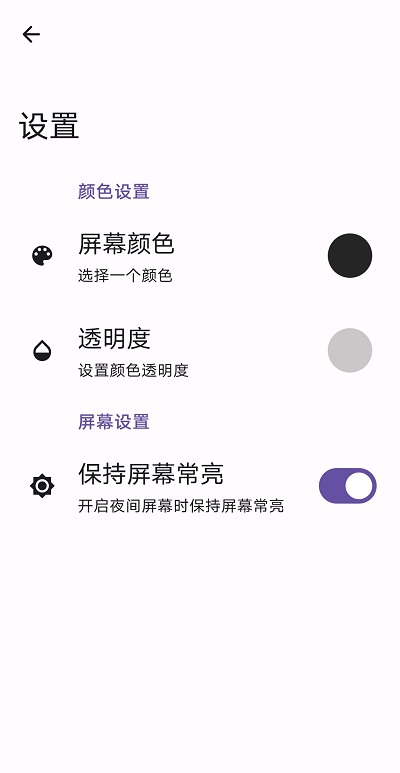
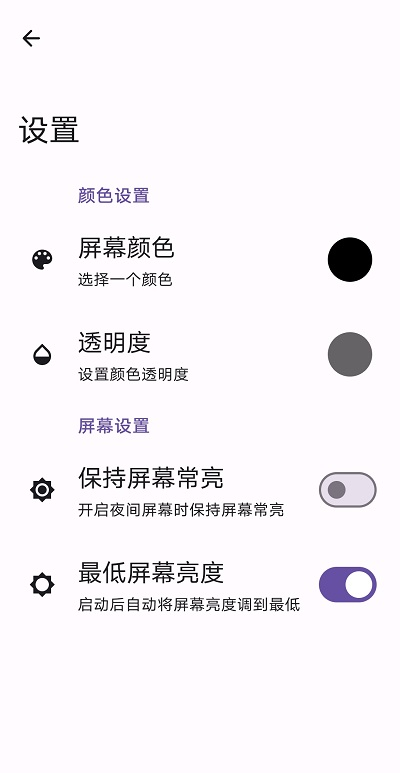
[feature|doc]支持自动降低屏幕亮度；完善截图文档

diff --git a/app/src/main/java/com/skyd/nightscreen/ui/screen/settings/SettingsScreen.kt b/app/src/main/java/com/skyd/nightscreen/ui/screen/settings/SettingsScreen.kt
@@ -4,6 +4,7 @@ import androidx.compose.animation.rememberSplineBasedDecay
 import androidx.compose.foundation.layout.*
 import androidx.compose.foundation.lazy.LazyColumn
 import androidx.compose.material.icons.Icons
+import androidx.compose.material.icons.filled.Brightness5
 import androidx.compose.material.icons.filled.Brightness7
 import androidx.compose.material.icons.filled.ColorLens
 import androidx.compose.material.icons.filled.Opacity
@@ -16,8 +17,10 @@ import androidx.compose.ui.Modifier
 import androidx.compose.ui.graphics.Color
 import androidx.compose.ui.graphics.toArgb
 import androidx.compose.ui.input.nestedscroll.nestedScroll
+import androidx.compose.ui.platform.LocalContext
 import androidx.compose.ui.res.stringResource
 import com.skyd.nightscreen.R
+import com.skyd.nightscreen.ext.activity
 import com.skyd.nightscreen.ui.component.*
 import com.skyd.nightscreen.ui.component.dialog.AlphaDialog
 import com.skyd.nightscreen.ui.component.dialog.ColorDialog
@@ -32,6 +35,7 @@ fun SettingsScreen() {
         state = rememberTopAppBarState()
     )
     val navController = LocalNavController.current
+    val activity = LocalContext.current.activity
     Scaffold(
         topBar = {
             NSTopBar(
@@ -50,6 +54,7 @@ fun SettingsScreen() {
     ) { innerPadding ->
         var color by remember { mutableStateOf(screenColor) }
         var alphaColor by remember { mutableStateOf(calculatedColor) }
+        var lowestScreenChecked = remember { mutableStateOf(lowestScreenBrightness) }
         LazyColumn(
             modifier = Modifier
                 .fillMaxSize()
@@ -114,8 +119,19 @@ fun SettingsScreen() {
                     icon = Icons.Default.Brightness7,
                     text = stringResource(id = R.string.settings_screen_keep_screen_on),
                     description = stringResource(id = R.string.settings_screen_keep_screen_on_description),
-                    checked = keepScreenOn,
+                    checked = remember { mutableStateOf(keepScreenOn) },
                     onCheckedChange = { keepScreenOn = it },
+                )
+            }
+            item {
+                SwitchSettingsItem(
+                    icon = Icons.Default.Brightness5,
+                    text = stringResource(id = R.string.settings_screen_lowest_screen_brightness),
+                    description = stringResource(id = R.string.settings_screen_lowest_screen_brightness_description),
+                    checked = lowestScreenChecked,
+                    onCheckedChange = {
+                        lowestScreenBrightness = it
+                    },
                 )
             }
         }

diff --git a/app/src/main/java/com/skyd/nightscreen/ui/screen/about/AboutScreen.kt b/app/src/main/java/com/skyd/nightscreen/ui/screen/about/AboutScreen.kt
@@ -26,6 +26,8 @@ import androidx.compose.ui.platform.LocalContext
 import androidx.compose.ui.platform.LocalView
 import androidx.compose.ui.res.painterResource
 import androidx.compose.ui.res.stringResource
+import androidx.compose.ui.semantics.contentDescription
+import androidx.compose.ui.semantics.semantics
 import androidx.compose.ui.unit.dp
 import com.skyd.nightscreen.R
 import com.skyd.nightscreen.config.Const
@@ -36,6 +38,7 @@ import com.skyd.nightscreen.ui.component.NSTopBarStyle
 import com.skyd.nightscreen.ui.local.LocalNavController
 import com.skyd.nightscreen.ui.screen.license.LICENSE_SCREEN_ROUTE
 import com.skyd.nightscreen.ui.shape.ReuleauxTriangleShape
+import com.skyd.nightscreen.util.CommonUtil.getAppVersionName
 import com.skyd.nightscreen.util.CommonUtil.openBrowser
 import com.skyd.nightscreen.util.screenIsLand
 
@@ -164,6 +167,7 @@ private fun AppIconArea(modifier: Modifier = Modifier) {
                 repeatMode = RepeatMode.Restart
             )
         )
+
         Box(
             modifier = Modifier
                 .padding(top = 50.dp, bottom = 50.dp)
@@ -188,14 +192,29 @@ private fun AppIconArea(modifier: Modifier = Modifier) {
                     )
                 }
         ) {
-            Image(
+            BadgedBox(
                 modifier = Modifier
                     .fillMaxSize(0.46f)
                     .align(Alignment.Center),
-                painter = painterResource(id = R.drawable.ic_icon_128),
-                contentDescription = null,
-                colorFilter = ColorFilter.tint(color = Color.White)
-            )
+                badge = {
+                    Badge {
+                        val badgeNumber = remember { getAppVersionName() }
+                        Text(
+                            badgeNumber,
+                            modifier = Modifier.semantics {
+                                contentDescription = "$badgeNumber new notifications"
+                            }
+                        )
+                    }
+                }
+            ) {
+                Image(
+                    modifier = Modifier.fillMaxSize(),
+                    painter = painterResource(id = R.drawable.ic_icon_128),
+                    contentDescription = null,
+                    colorFilter = ColorFilter.tint(color = Color.White)
+                )
+            }
         }
     }
 }

diff --git a/app/src/main/java/com/skyd/nightscreen/ui/screen/home/HomeScreen.kt b/app/src/main/java/com/skyd/nightscreen/ui/screen/home/HomeScreen.kt
@@ -6,9 +6,7 @@ import androidx.compose.foundation.clickable
 import androidx.compose.foundation.layout.*
 import androidx.compose.foundation.lazy.LazyColumn
 import androidx.compose.material.icons.Icons
-import androidx.compose.material.icons.outlined.Info
-import androidx.compose.material.icons.outlined.PlayArrow
-import androidx.compose.material.icons.outlined.Settings
+import androidx.compose.material.icons.outlined.*
 import androidx.compose.material3.*
 import androidx.compose.runtime.Composable
 import androidx.compose.runtime.SideEffect
@@ -23,6 +21,7 @@ import com.hjq.permissions.Permission
 import com.skyd.nightscreen.R
 import com.skyd.nightscreen.ext.activity
 import com.skyd.nightscreen.ext.plus
+import com.skyd.nightscreen.ext.requestAllPermissions
 import com.skyd.nightscreen.ext.requestSystemAlertWindowPermission
 import com.skyd.nightscreen.ui.component.NSTopBar
 import com.skyd.nightscreen.ui.component.NSTopBarStyle
@@ -74,9 +73,15 @@ fun HomeScreen(arguments: Bundle? = null) {
                     imageVector = Icons.Outlined.PlayArrow,
                     text = stringResource(id = R.string.run_night_screen),
                 ) {
-                    context.activity.requestSystemAlertWindowPermission(onGranted = {
-                        getNightScreenDialog(context).show()
-                    })
+                    getNightScreenDialog(context).show()
+                }
+            }
+            item {
+                HomeItem(
+                    imageVector = Icons.Outlined.DoneAll,
+                    text = stringResource(id = R.string.request_permissions),
+                ) {
+                    context.activity.requestAllPermissions()
                 }
             }
             item {

diff --git a/app/src/main/java/com/skyd/nightscreen/ext/PermissionExt.kt b/app/src/main/java/com/skyd/nightscreen/ext/PermissionExt.kt
@@ -1,10 +1,12 @@
 package com.skyd.nightscreen.ext
 
 import android.app.Activity
+import android.content.Context
 import com.hjq.permissions.Permission
 import com.hjq.permissions.XXPermissions
 import com.skyd.nightscreen.R
 import com.skyd.nightscreen.ui.component.showToast
+import com.skyd.nightscreen.ui.listener.dsl.requestPermissions
 import com.skyd.nightscreen.ui.listener.dsl.requestSinglePermission
 
 fun Activity.requestSystemAlertWindowPermission(
@@ -15,6 +17,27 @@ fun Activity.requestSystemAlertWindowPermission(
         .with(this)
         .permission(Permission.SYSTEM_ALERT_WINDOW)
         .requestSinglePermission {
+            onGranted(onGranted)
+            onDenied(onDenied)
+        }
+}
+
+fun Activity.requestAllPermissions(
+    onDenied: (permissions: MutableList<String>?, never: Boolean) -> Unit = { permissions, never ->
+        var permission = ""
+        if (permissions?.contains(Permission.SYSTEM_ALERT_WINDOW) == true) {
+            permission += getString(R.string.alert_window_permission)
+        }
+        getString(R.string.request_permission_failed, permission).showToast()
+    },
+    onGranted: (permissions: MutableList<String>?, all: Boolean) -> Unit = { _, all ->
+        if (all) getString(R.string.request_permissions_success).showToast()
+    }
+) {
+    XXPermissions
+        .with(this)
+        .permission(Permission.SYSTEM_ALERT_WINDOW)
+        .requestPermissions {
             onGranted(onGranted)
             onDenied(onDenied)
         }

diff --git a/app/src/main/java/com/skyd/nightscreen/ui/component/SettingsItem.kt b/app/src/main/java/com/skyd/nightscreen/ui/component/SettingsItem.kt
@@ -19,7 +19,7 @@ fun SwitchSettingsItem(
     icon: ImageVector,
     text: String,
     description: String? = null,
-    checked: Boolean = false,
+    checked: MutableState<Boolean> = mutableStateOf(false),
     onCheckedChange: ((Boolean) -> Unit)?,
 ) {
     SwitchSettingsItem(
@@ -36,21 +36,20 @@ fun SwitchSettingsItem(
     icon: Painter,
     text: String,
     description: String? = null,
-    checked: Boolean = false,
+    checked: MutableState<Boolean> = mutableStateOf(false),
     onCheckedChange: ((Boolean) -> Unit)?,
 ) {
-    var c by remember { mutableStateOf(checked) }
     BaseSettingsItem(
         icon = icon,
         text = text,
         description = description,
         onClick = {
-            c = !c
-            onCheckedChange?.invoke(c)
+            checked.value = !checked.value
+            onCheckedChange?.invoke(checked.value)
         }
     ) {
-        Switch(checked = c, onCheckedChange = {
-            c = it
+        Switch(checked = checked.value, onCheckedChange = {
+            checked.value = it
             onCheckedChange?.invoke(it)
         })
     }

diff --git a/app/src/main/java/com/skyd/nightscreen/ui/component/NightScreenLayer.kt b/app/src/main/java/com/skyd/nightscreen/ui/component/NightScreenLayer.kt
@@ -11,6 +11,7 @@ var showNightScreenLayer: Boolean = false
     set(value) {
         if (value) {
             layerView.visible()
+            layerView.lowestScreenBrightness = lowestScreenBrightness
             layerView.keepScreenOn = keepScreenOn
             layerView.updateColor(calculatedColor)
         } else {
@@ -43,6 +44,13 @@ var keepScreenOn = sharedPreferences().getBoolean("keepScreenOn", false)
         field = value
         layerView.keepScreenOn = value
         sharedPreferences().editor { putBoolean("keepScreenOn", value) }
+    }
+
+var lowestScreenBrightness = sharedPreferences().getBoolean("lowestScreenBrightness", false)
+    set(value) {
+        field = value
+        layerView.lowestScreenBrightness = value
+        sharedPreferences().editor { putBoolean("lowestScreenBrightness", value) }
     }
 
 private val layerView by lazy { LayerView(appContext) }

diff --git a/app/src/main/java/com/skyd/nightscreen/util/CommonUtil.kt b/app/src/main/java/com/skyd/nightscreen/util/CommonUtil.kt
@@ -2,6 +2,7 @@ package com.skyd.nightscreen.util
 
 import android.content.ActivityNotFoundException
 import android.content.Intent
+import android.content.pm.PackageManager
 import android.net.Uri
 import android.widget.Toast
 import com.skyd.nightscreen.R
@@ -19,5 +20,18 @@ object CommonUtil {
             e.printStackTrace()
             appContext.getString(R.string.no_browser_found, url).showToast(Toast.LENGTH_LONG)
         }
+    }
+
+    fun getAppVersionName(): String {
+        var appVersionName = ""
+        try {
+            val packageInfo = appContext.applicationContext
+                .packageManager
+                .getPackageInfo(appContext.packageName, 0)
+            appVersionName = packageInfo.versionName
+        } catch (e: PackageManager.NameNotFoundException) {
+            e.printStackTrace()
+        }
+        return appVersionName
     }
 }

diff --git a/app/src/main/java/com/skyd/nightscreen/ui/theme/Theme.kt b/app/src/main/java/com/skyd/nightscreen/ui/theme/Theme.kt
@@ -1,19 +1,10 @@
 package com.skyd.nightscreen.ui.theme
 
-import android.app.Activity
 import android.os.Build
 import androidx.compose.foundation.isSystemInDarkTheme
-import androidx.compose.material3.MaterialTheme
-import androidx.compose.material3.darkColorScheme
-import androidx.compose.material3.dynamicDarkColorScheme
-import androidx.compose.material3.dynamicLightColorScheme
-import androidx.compose.material3.lightColorScheme
+import androidx.compose.material3.*
 import androidx.compose.runtime.Composable
-import androidx.compose.runtime.SideEffect
-import androidx.compose.ui.graphics.toArgb
 import androidx.compose.ui.platform.LocalContext
-import androidx.compose.ui.platform.LocalView
-import androidx.core.view.ViewCompat
 
 private val DarkColorScheme = darkColorScheme(
     primary = Purple80,

diff --git a/app/src/main/java/com/skyd/nightscreen/ui/component/LayerView.kt b/app/src/main/java/com/skyd/nightscreen/ui/component/LayerView.kt
@@ -39,6 +39,17 @@ class LayerView(context: Context) : View(context) {
 
     private var isVisible = false
     private var bgColor = Color.TRANSPARENT
+    var lowestScreenBrightness = false
+        set(value) {
+            if (value == field) return
+            layoutParams.screenBrightness =
+                if (value) 0f else WindowManager.LayoutParams.BRIGHTNESS_OVERRIDE_NONE
+            if (isVisible) {
+                windowManager.removeView(this)
+                windowManager.addView(this, layoutParams)
+            }
+            field = value
+        }
 
     fun updateColor(color: Int) {
         ObjectAnimator.ofInt(this, "backgroundColor", bgColor, color).apply {

diff --git a/README.md b/README.md
@@ -1,15 +1,44 @@
-# 🌙Night Screen
+<div align="center">
+    <div>
+        <img src="image/icon.svg" style="height: 220px"/>
+    </div>
+    <h1>🌙 Night Screen</h1>
+    <p>
+        <a href="https://github.com/SkyD666/NightScreen/releases/latest" style="text-decoration:none">
+            <img src="https://img.shields.io/github/v/release/SkyD666/NightScreen?display_name=release" alt="GitHub release (latest by date)"/>
+        </a>
+        <a href="https://github.com/SkyD666/NightScreen/releases/latest" style="text-decoration:none" >
+            <img src="https://img.shields.io/github/downloads/SkyD666/NightScreen/total" alt="GitHub all downloads"/>
+        </a>
+        <a href="https://img.shields.io/badge/Android-7.0%2B-brightgreen" style="text-decoration:none" >
+            <img src="https://img.shields.io/badge/Android-7.0%2B-brightgreen" alt="Android version"/>
+        </a>
+        <a href="https://github.com/SkyD666/Imomoe/blob/master/LICENSE" style="text-decoration:none" >
+            <img src="https://img.shields.io/github/license/SkyD666/NightScreen" alt="GitHub license"/>
+        </a>
+	</p>
+    <p>
+        当您在<b>夜间</b>使用手机时，Night Screen可以帮助您<b>减少屏幕亮度</b>，减少对眼睛的伤害。
+    </p>
+    <p>
+        软件完全采用<b>Material You</b>设计风格。除全局Dialog外，<b>完全使用Jetpack Compose</b>开发。
+    </p>
+</div>
 
-当您在**夜间**使用手机时，Night Screen可以帮助您**减少屏幕亮度**，减少对眼睛的伤害。
+## 💡主要功能
 
-软件完全采用**Material 3 (You)**设计风格。除全局Dialog外，**完全使用Jetpack Compose**开发。
+- 支持从系统下拉**任务栏开关启动**
+- 支持调整**屏幕颜色**
+- 支持屏幕**常亮**
+- 支持**自动降低系统亮度**
+- ……
 
 ## 📸应用截图
 
-|    ![ic_home_screen](image/screenshot/ic_home_screen.jpg)    | ![ic_home_screen](image/screenshot/ic_nignt_screen_dialog.jpg) |
-| :----------------------------------------------------------: | :----------------------------------------------------------: |
-| ![ic_settings_screen](image/screenshot/ic_settings_screen.jpg) |   ![ic_alpha_dialog](image/screenshot/ic_alpha_dialog.jpg)   |
-|   ![ic_color_dialog](image/screenshot/ic_color_dialog.jpg)   |   ![ic_about_screen](image/screenshot/ic_about_screen.jpg)   |
+![ic_home_screen](image/screenshot/ic_home_screen.jpg) ![ic_home_screen](image/screenshot/ic_nignt_screen_dialog.jpg)
+![ic_settings_screen](image/screenshot/ic_settings_screen.jpg) ![ic_alpha_dialog](image/screenshot/ic_alpha_dialog.jpg)
+![ic_color_dialog](image/screenshot/ic_color_dialog.jpg) ![ic_about_screen](image/screenshot/ic_about_screen.jpg)
+![ic_tile](image/screenshot/ic_tile.png)
 
 ## 🛠主要技术栈
 
